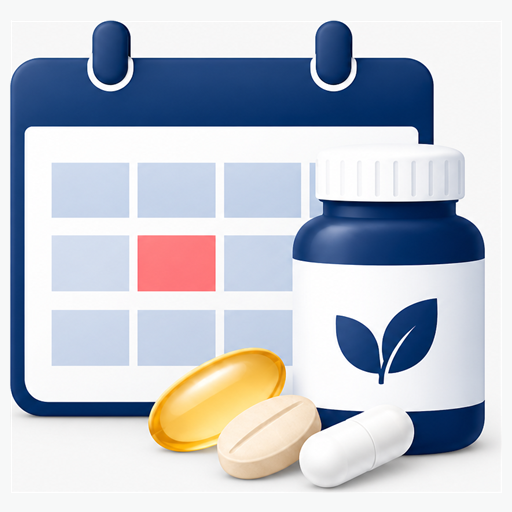
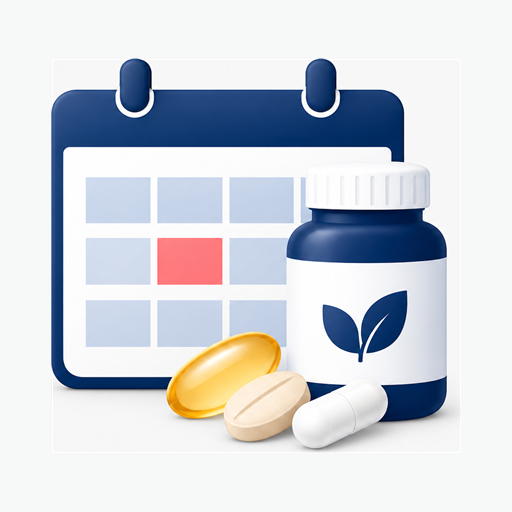
핸드폰 아이콘 여백 확대

diff --git a/public/sw.js b/public/sw.js
@@ -1,4 +1,4 @@
-const CACHE_NAME = 'hsmoa-health-food-v9';
+const CACHE_NAME = 'hsmoa-health-food-v10';
 const ASSETS = ['/', '/index.html', '/style.css', '/app.js', '/manifest.json', '/favicon.png', '/favicon.ico', '/icon-192.png', '/icon-512.png'];
 
 self.addEventListener('install', (event) => {